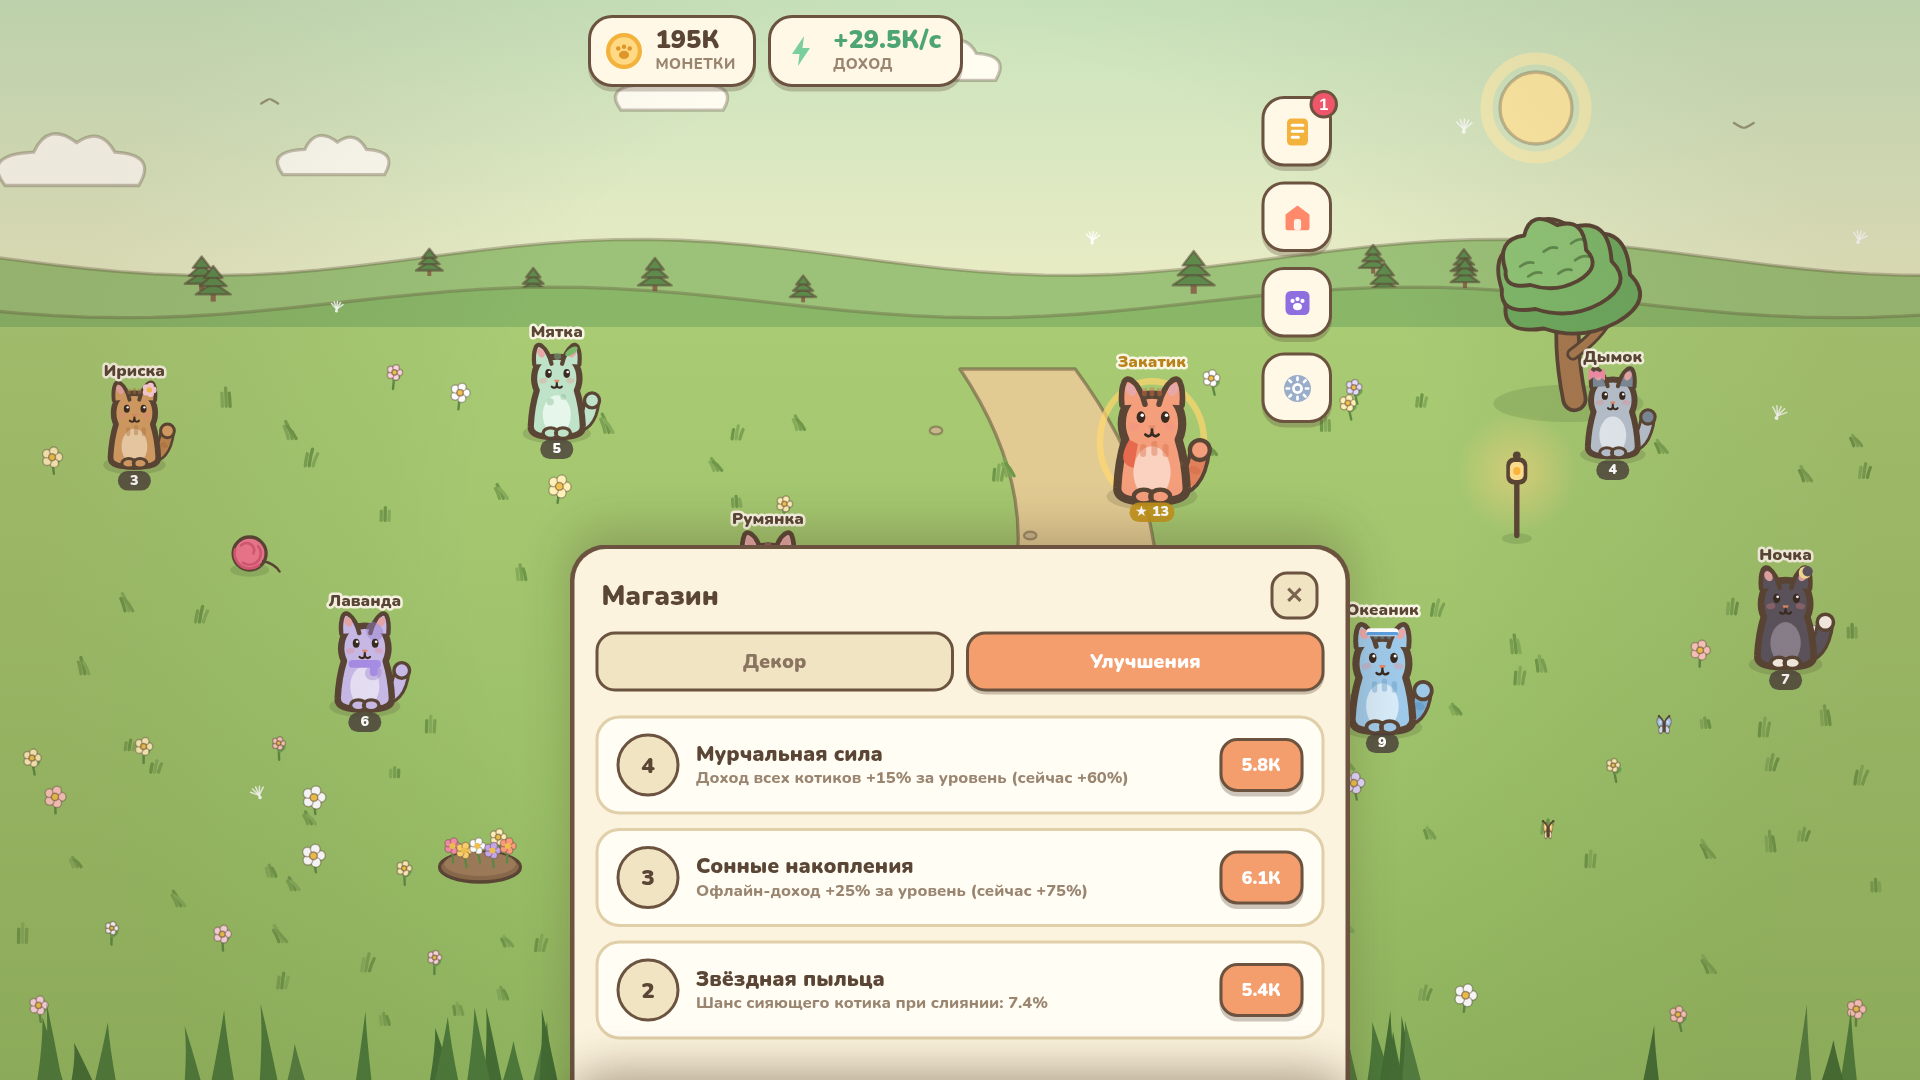
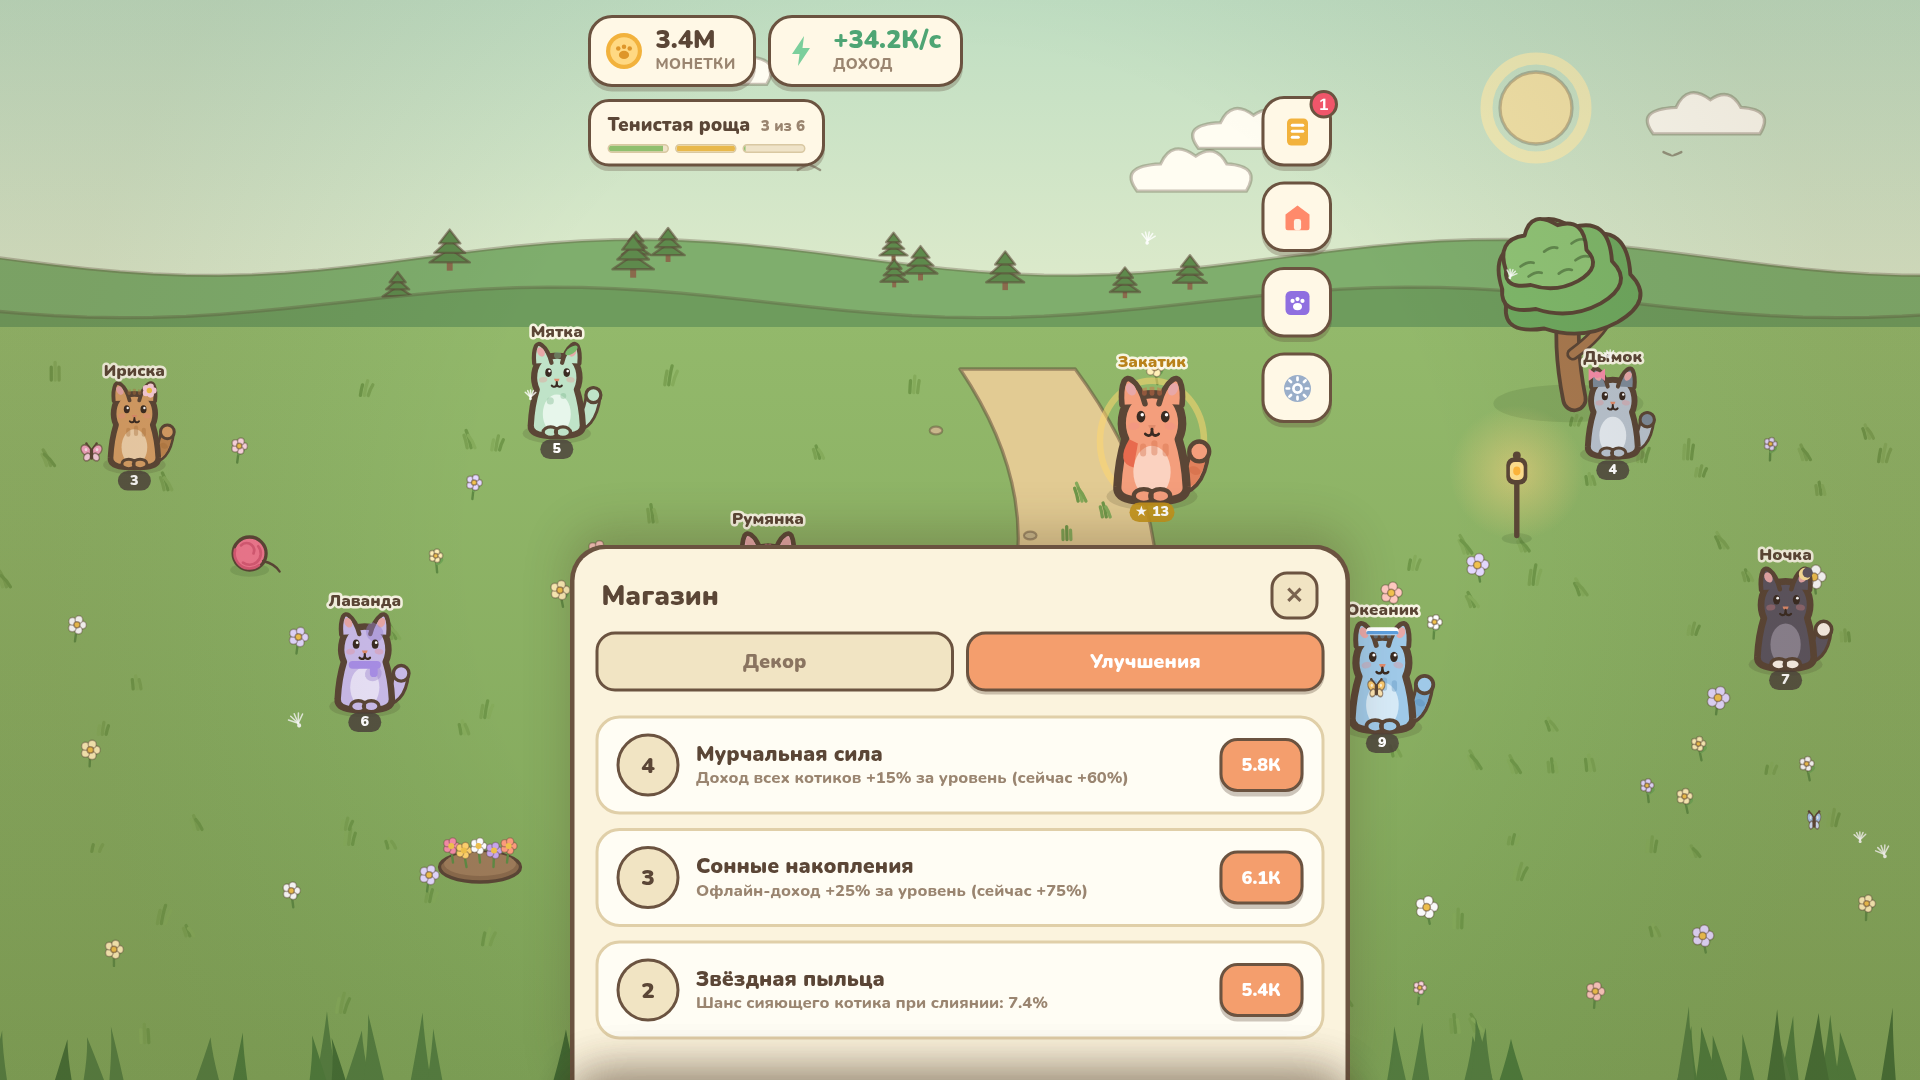
Перевыпустить скриншоты магазина под новый интерфейс
В HUD появилась полоска маршрута и у каждой остановки своя палитра, поэтому
прежние 24 скриншота показывали игру, которой больше нет. Добавлен седьмой
кадр — карта маршрута, в обеих локалях и обоих форматах.

Сид кадров поставлен на третью остановку (палитра отличается от стартовой, на
карте есть пройденное, текущее и скрытое туманом) и с запасом монет, иначе
главная кнопка в кадре выходила серой.

Проверка EN-сборки на кириллицу расширена на все новые экраны: карта, переезд,
финал, ярлык, смена задания, удвоение сундука и подарка — 19 экранов, ноль
находок.

Claude-Session: https://claude.ai/code/session_0119AxHYyw8fGTgDaF1pzinq

diff --git a/store-assets/PUBLICATION.md b/store-assets/PUBLICATION.md
@@ -136,10 +136,10 @@ Relaxing meadow vibes, a soft hand-drawn art style, and dozens of cats living th
 | `cover.png` | 800×470 | Обложка RU — надпись «Мур-Луг» |
 | `cover-en.png` | 800×470 | Обложка EN — надпись «Purr Meadow» |
 | `icon.png` | 512×512 | Иконка игры |
-| `d1-gameplay-ru.png`, `d2-quests-ru.png`, `d3-shop-decor-ru.png`, `d4-shop-upgrades-ru.png`, `d5-album-ru.png`, `d6-settings-ru.png` | 1920×1080 | Десктопные скриншоты **RU** (альбомные) |
-| `d1-gameplay-en.png`, `d2-quests-en.png`, `d3-shop-decor-en.png`, `d4-shop-upgrades-en.png`, `d5-album-en.png`, `d6-settings-en.png` | 1920×1080 | Десктопные скриншоты **EN** (альбомные) |
-| `s1-gameplay-ru.png`, `s2-quests-ru.png`, `s3-shop-decor-ru.png`, `s4-shop-upgrades-ru.png`, `s5-album-ru.png`, `s6-settings-ru.png` | 900×1600 | Мобильные скриншоты **RU** (вертикальные) |
-| `s1-gameplay-en.png`, `s2-quests-en.png`, `s3-shop-decor-en.png`, `s4-shop-upgrades-en.png`, `s5-album-en.png`, `s6-settings-en.png` | 900×1600 | Мобильные скриншоты **EN** (вертикальные) |
+| `d1-gameplay-ru.png`, `d2-quests-ru.png`, `d3-shop-decor-ru.png`, `d4-shop-upgrades-ru.png`, `d5-album-ru.png`, `d6-settings-ru.png`, `d7-route-ru.png` | 1920×1080 | Десктопные скриншоты **RU** (альбомные) |
+| `d1-gameplay-en.png`, `d2-quests-en.png`, `d3-shop-decor-en.png`, `d4-shop-upgrades-en.png`, `d5-album-en.png`, `d6-settings-en.png`, `d7-route-en.png` | 1920×1080 | Десктопные скриншоты **EN** (альбомные) |
+| `s1-gameplay-ru.png`, `s2-quests-ru.png`, `s3-shop-decor-ru.png`, `s4-shop-upgrades-ru.png`, `s5-album-ru.png`, `s6-settings-ru.png`, `s7-route-ru.png` | 900×1600 | Мобильные скриншоты **RU** (вертикальные) |
+| `s1-gameplay-en.png`, `s2-quests-en.png`, `s3-shop-decor-en.png`, `s4-shop-upgrades-en.png`, `s5-album-en.png`, `s6-settings-en.png`, `s7-route-en.png` | 900×1600 | Мобильные скриншоты **EN** (вертикальные) |
 | `dev-icon-CuteSatify.png` | 512×512 | Иконка аккаунта разработчика |
 
 **Скриншоты в консоли:** тип «Десктопные», ориентация «Альбомная» — грузить `d*`-файлы. Мобильные `s*` — во вкладку «Мобильные / Вертикальная».
